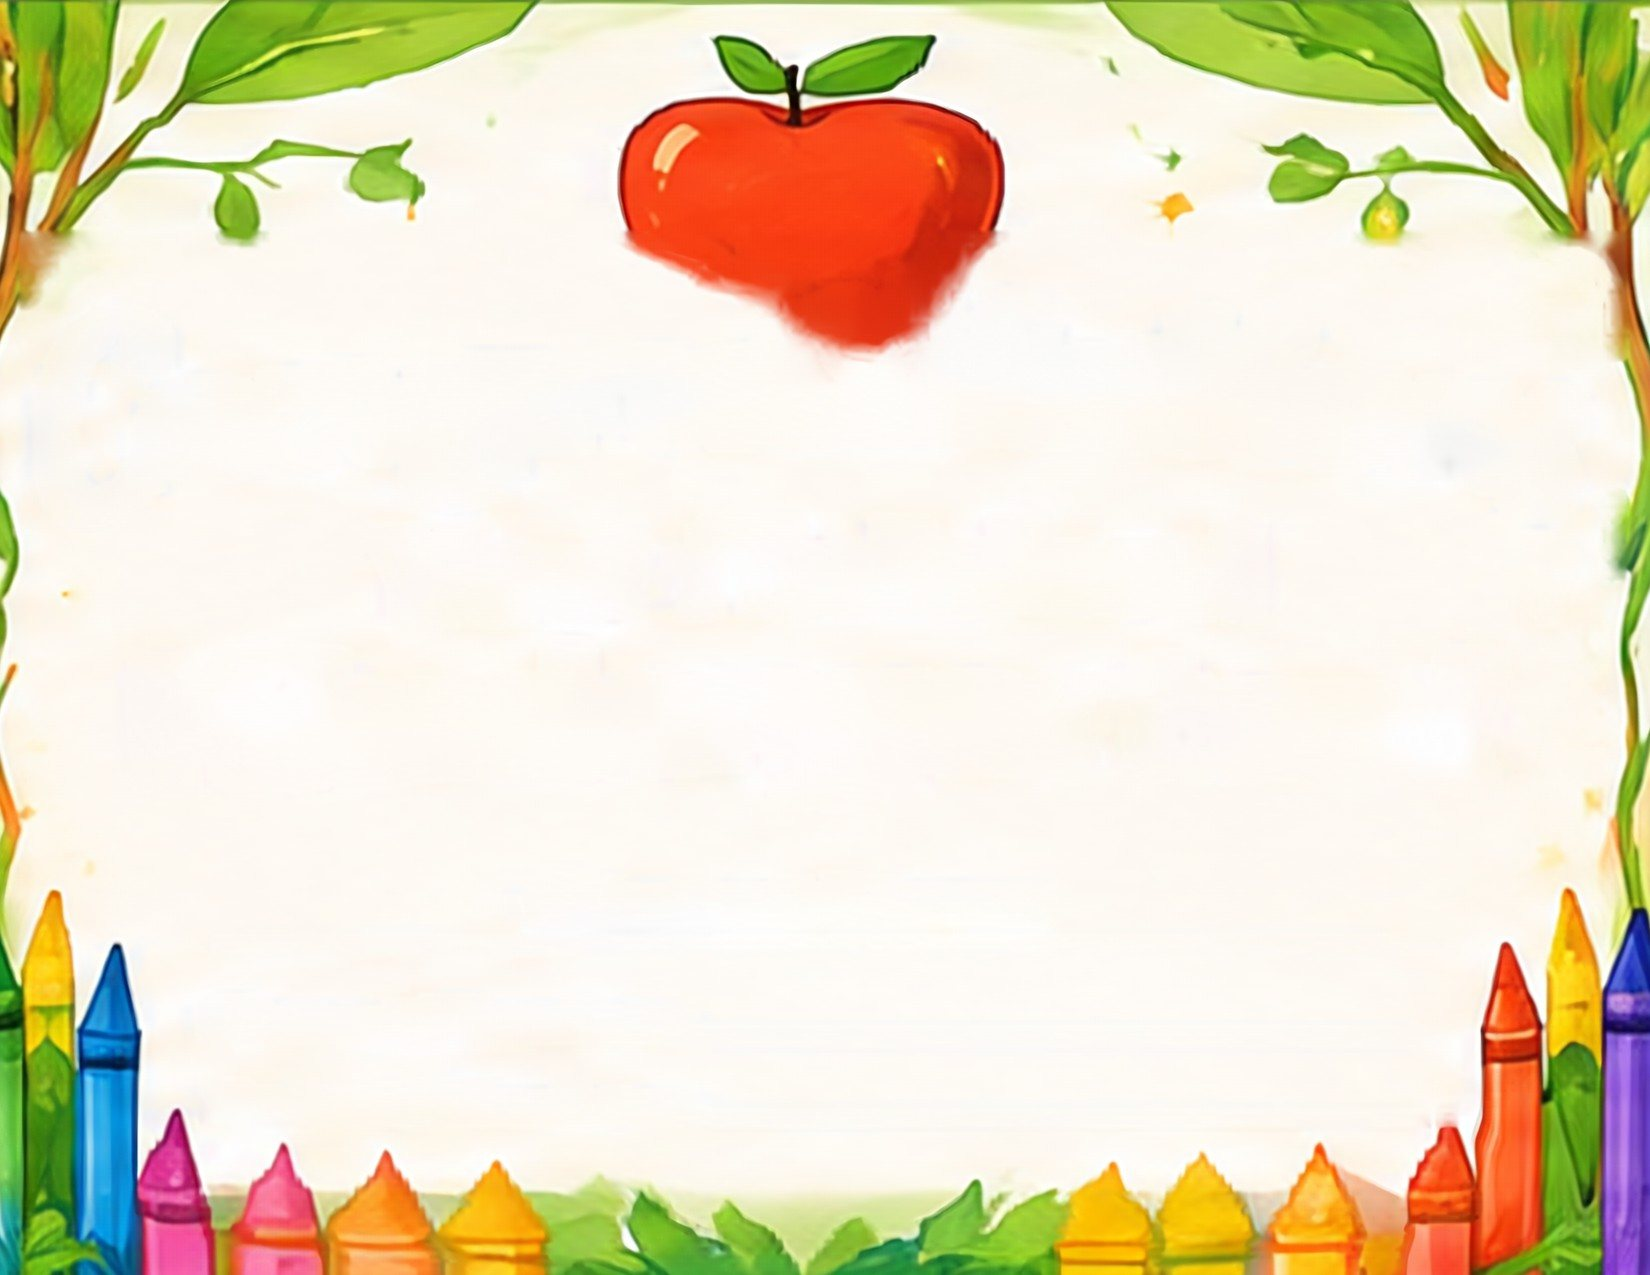
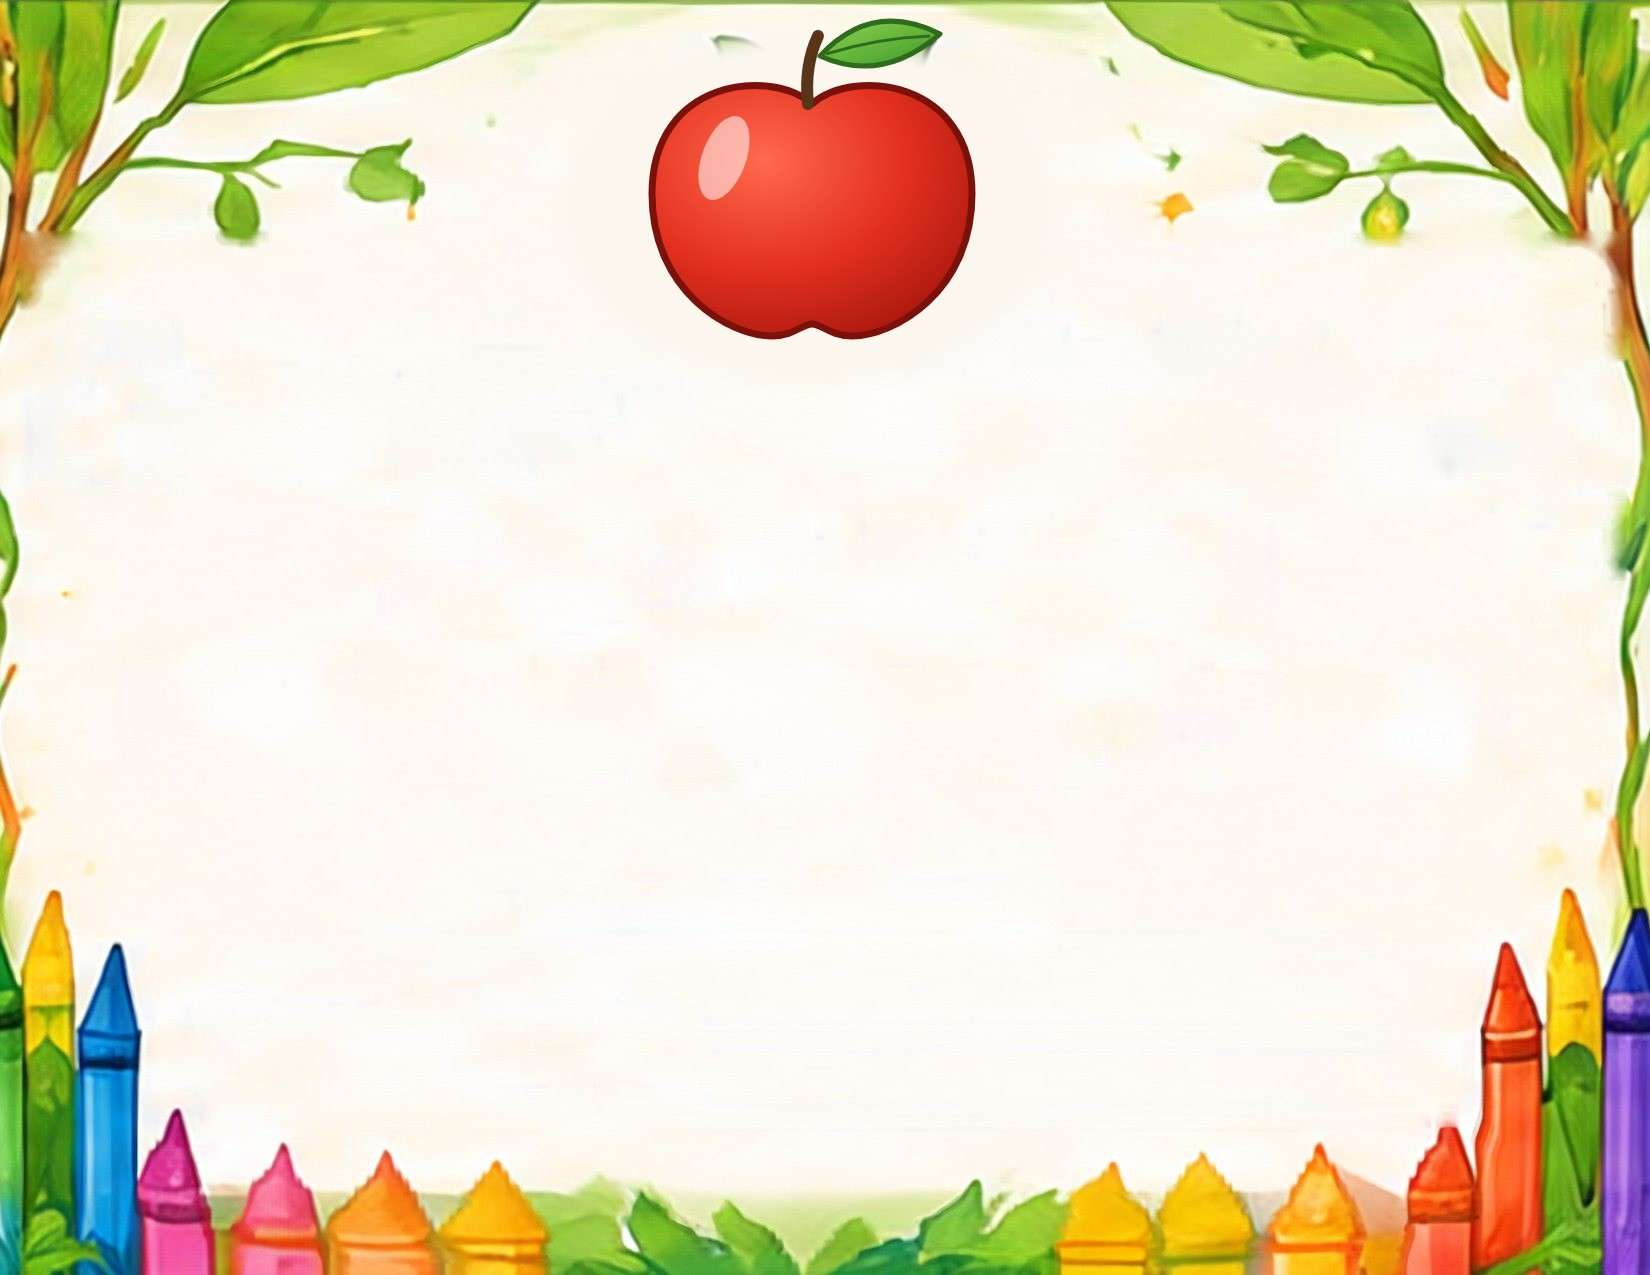
Rewards Certificates: rename, bigger centered name, side-by-side signatures, fonts, repaired art
- Grade Level Awards is now Rewards Certificates (nav, page, print).
- The child's name sits large in the center over a STUDENT NAME line;
  the two Parent/Teacher signature lines sit side by side, spread left
  and right, below it.
- New Student Name Font and Parent/Teacher Names Font choices (eight
  fonts each), carried through to Print.
- Artwork: the bee (face drifting off its body), sports balls (stretched
  basketball, smeared soccer ball, sliced footballs), apple (smudged
  bottom) and sea turtle (cut-off, smeared flippers) are painted out
  and redrawn cleanly in the same style and spots.

Claude-Session: https://claude.ai/code/session_01XFyP7yFm4jkBdSEkEiddzF

Changed region(s): [[0.3709, 0.0, 0.6182, 0.3059]]

diff --git a/test/routes-grade-level-awards.test.js b/test/routes-grade-level-awards.test.js
@@ -47,7 +47,7 @@ test('Family School Management Grade Level Awards: builder, preview with names, 
 
   const page = await agent.get('/parent/academics/awards?grade=3');
   assert.equal(page.status, 200);
-  assert.match(page.text, /<h1>Grade Level Awards<\/h1>/);
+  assert.match(page.text, /<h1>Rewards Certificates<\/h1>/);
   assert.match(page.text, /<select name="grade">/);
   assert.match(page.text, /<option value="3" selected>3rd Grade<\/option>/);
   assert.equal((page.text.match(/<label class="dip-choice ga-choice/g) || []).length, 15);
@@ -67,18 +67,43 @@ test('Family School Management Grade Level Awards: builder, preview with names, 
   assert.match(print.text, /@page \{ size: letter landscape; margin: 0; \}/);
   assert.match(print.text, /12th Grade!/);
   assert.match(print.text, />Award Kid<\/text>/);
-  assert.match(print.text, /Student Name:/);
-  assert.equal((print.text.match(/Parent\/Teacher:/g) || []).length, 2, 'blank parent lines stay for handwriting');
+  assert.match(print.text, />STUDENT NAME</);
+  assert.equal((print.text.match(/>Parent\/Teacher</g) || []).length, 2, 'blank parent lines stay for handwriting');
 });
 
-test('Main Admin Family School Management has a Grade Level Awards subpage', async () => {
+test('Main Admin Family School Management has a Rewards Certificates subpage', async () => {
   const admin = request.agent(app);
   await admin.post('/login').type('form').send({ email: 'mainadmin@coop.local', password: 'changeme123', next: '/main-admin' });
   const page = await admin.get('/main-admin/family-school/awards?grade=k');
   assert.equal(page.status, 200);
-  assert.match(page.text, /href="\/main-admin\/family-school\/awards"[^>]*>Grade Level Awards/);
+  assert.match(page.text, /href="\/main-admin\/family-school\/awards"[^>]*>Rewards Certificates/);
   assert.match(page.text, /Kindergarten!/);
   const print = await admin.get('/main-admin/family-school/awards/print?grade=k&design=apple');
   assert.equal(print.status, 200);
   assert.match(print.text, /grade-award-apple/);
+});
+
+// A real request: "Rewards certificates... parent signature title and
+// lines should be side by side a bit away from each other so the child's
+// name can stand out more in the center. Child's name should be larger
+// than parent signatures. Add font choice for child's name and parents
+// names."
+test('Rewards Certificates: big centered name, side-by-side signatures, name and parent fonts', async () => {
+  const admin = request.agent(app);
+  await admin.post('/login').type('form').send({ email: 'mainadmin@coop.local', password: 'changeme123', next: '/main-admin' });
+  const page = await admin.get('/main-admin/family-school/awards?grade=4&design=sports&studentName=Kid%20Star&parent1=Mom%20Star&parent2=Dad%20Star&nameFont=marker&parentFont=script');
+  assert.equal(page.status, 200);
+  assert.match(page.text, /<select name="nameFont">[\s\S]*?<option value="marker"[^>]*selected>Marker</);
+  assert.match(page.text, /<select name="parentFont">[\s\S]*?<option value="script"[^>]*selected>Fancy Script</);
+  const svg = page.text.slice(page.text.indexOf('id="award-preview"'));
+  const name = /<text x="550"[^>]*font-family="([^"]*)"[^>]*font-size="(\d+)"[^>]*>Kid Star</.exec(svg);
+  const mom = /<text x="(\d+)"[^>]*font-family="([^"]*)"[^>]*font-size="(\d+)"[^>]*>Mom Star</.exec(svg);
+  const dad = /<text x="(\d+)"[^>]*font-size="(\d+)"[^>]*>Dad Star</.exec(svg);
+  assert.ok(name && mom && dad, 'all three names drawn');
+  assert.match(name[1], /Permanent Marker/);
+  assert.match(mom[2], /Great Vibes/);
+  assert.ok(Number(name[2]) > Number(mom[3]), "the child's name is larger than the signatures");
+  assert.ok(Number(mom[1]) < 450 && Number(dad[1]) > 650, 'signatures sit side by side, apart, left and right');
+  const print = await admin.get('/main-admin/family-school/awards/print?grade=4&design=sports&nameFont=marker');
+  assert.match(print.text, /family=Permanent\+Marker/);
 });

diff --git a/utils/gradeAwards.js b/utils/gradeAwards.js
@@ -44,6 +44,21 @@ const AWARD_DESIGNS = [
 ];
 const DESIGN_KEYS = AWARD_DESIGNS.map((d) => d.key);
 
+// A real request: "Add font choice for child's name and parents names."
+// Loaded from Google Fonts by views/partials/grade-award.ejs.
+const AWARD_FONTS = [
+  { key: 'handwriting', label: 'Handwriting (Caveat)', css: "'Caveat', 'Segoe Print', cursive", weight: 700 },
+  { key: 'print', label: 'Neat Print', css: "'Patrick Hand', 'Comic Sans MS', cursive", weight: 400 },
+  { key: 'marker', label: 'Marker', css: "'Permanent Marker', cursive", weight: 400 },
+  { key: 'rounded', label: 'Bold Rounded', css: "'Baloo 2', 'Arial Rounded MT Bold', sans-serif", weight: 800 },
+  { key: 'playful', label: 'Playful', css: "'Fredoka', 'Arial Rounded MT Bold', sans-serif", weight: 600 },
+  { key: 'brush', label: 'Brush Script', css: "'Kaushan Script', 'Brush Script MT', cursive", weight: 400 },
+  { key: 'script', label: 'Fancy Script', css: "'Great Vibes', cursive", weight: 400 },
+  { key: 'classic', label: 'Classic Serif', css: "'EB Garamond', Georgia, serif", weight: 700 },
+];
+const FONT_KEYS = AWARD_FONTS.map((f) => f.key);
+const fontFor = (key) => AWARD_FONTS.find((f) => f.key === key) || AWARD_FONTS[0];
+
 const clean = (v) => String(v || '').trim().slice(0, 80);
 
 // The builder's query string -> exactly what one award shows.
@@ -59,6 +74,10 @@ function awardFromQuery(q) {
     studentName: clean(query.studentName),
     parent1: clean(query.parent1),
     parent2: clean(query.parent2),
+    nameFont: FONT_KEYS.includes(query.nameFont) ? query.nameFont : 'handwriting',
+    parentFont: FONT_KEYS.includes(query.parentFont) ? query.parentFont : 'handwriting',
+    nameFontStyle: fontFor(query.nameFont),
+    parentFontStyle: fontFor(query.parentFont),
   };
 }
 
@@ -69,7 +88,9 @@ function awardQuery(award, overrides) {
   if (a.studentName) params.set('studentName', a.studentName);
   if (a.parent1) params.set('parent1', a.parent1);
   if (a.parent2) params.set('parent2', a.parent2);
+  if (a.nameFont && a.nameFont !== 'handwriting') params.set('nameFont', a.nameFont);
+  if (a.parentFont && a.parentFont !== 'handwriting') params.set('parentFont', a.parentFont);
   return params.toString();
 }
 
-module.exports = { GRADE_LEVELS, AWARD_DESIGNS, awardFromQuery, awardQuery };
+module.exports = { GRADE_LEVELS, AWARD_DESIGNS, AWARD_FONTS, awardFromQuery, awardQuery };

diff --git a/routes/parent-portal.js b/routes/parent-portal.js
@@ -1434,7 +1434,7 @@ router.get('/academics/diplomas/:studentId/download.pdf', requirePortalPermissio
 router.get('/academics/awards', requirePortalPermission('view_fsm_diplomas'), async (req, res) => {
   const children = await childrenForAccount(req.portalAccount);
   res.render('grade-awards', {
-    title: 'Grade Level Awards',
+    title: 'Rewards Certificates',
     portalTitle: 'Family School Management',
     award: awardFromQuery(req.query),
     basePath: '/parent/academics/awards',
@@ -1444,7 +1444,7 @@ router.get('/academics/awards', requirePortalPermission('view_fsm_diplomas'), as
 
 router.get('/academics/awards/print', requirePortalPermission('view_fsm_diplomas'), (req, res) => {
   const award = awardFromQuery(req.query);
-  res.render('grade-award-print', { title: 'Grade Level Award', award, backHref: '/parent/academics/awards?' + awardQuery(award) });
+  res.render('grade-award-print', { title: 'Rewards Certificate', award, backHref: '/parent/academics/awards?' + awardQuery(award) });
 });
 
 // Name Tags - a real request: parents should be able to print name tags

diff --git a/routes/main-admin-family-school.js b/routes/main-admin-family-school.js
@@ -240,7 +240,7 @@ router.get('/family-school/diplomas/:studentId/download.pdf', requirePortalPermi
 
 router.get('/family-school/awards', requirePortalPermission('view_family_school_diplomas_main_admin'), async (req, res) => {
   res.render('grade-awards', {
-    title: 'Grade Level Awards',
+    title: 'Rewards Certificates',
     portalTitle: 'Main Admin',
     award: awardFromQuery(req.query),
     basePath: '/main-admin/family-school/awards',
@@ -250,7 +250,7 @@ router.get('/family-school/awards', requirePortalPermission('view_family_school_
 
 router.get('/family-school/awards/print', requirePortalPermission('view_family_school_diplomas_main_admin'), (req, res) => {
   const award = awardFromQuery(req.query);
-  res.render('grade-award-print', { title: 'Grade Level Award', award, backHref: '/main-admin/family-school/awards?' + awardQuery(award) });
+  res.render('grade-award-print', { title: 'Rewards Certificate', award, backHref: '/main-admin/family-school/awards?' + awardQuery(award) });
 });
 
 module.exports = router;
